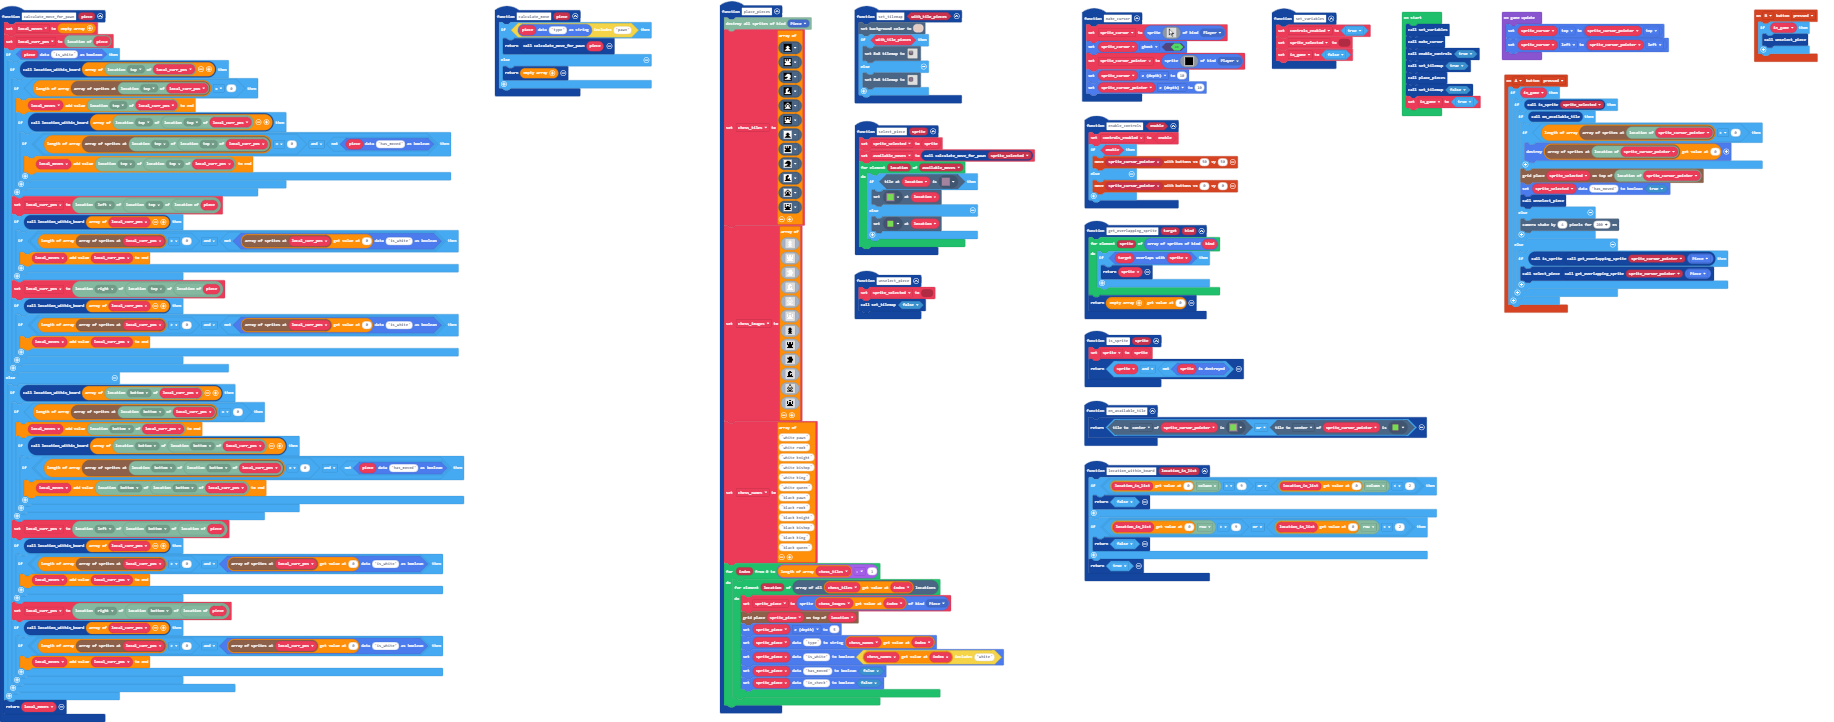
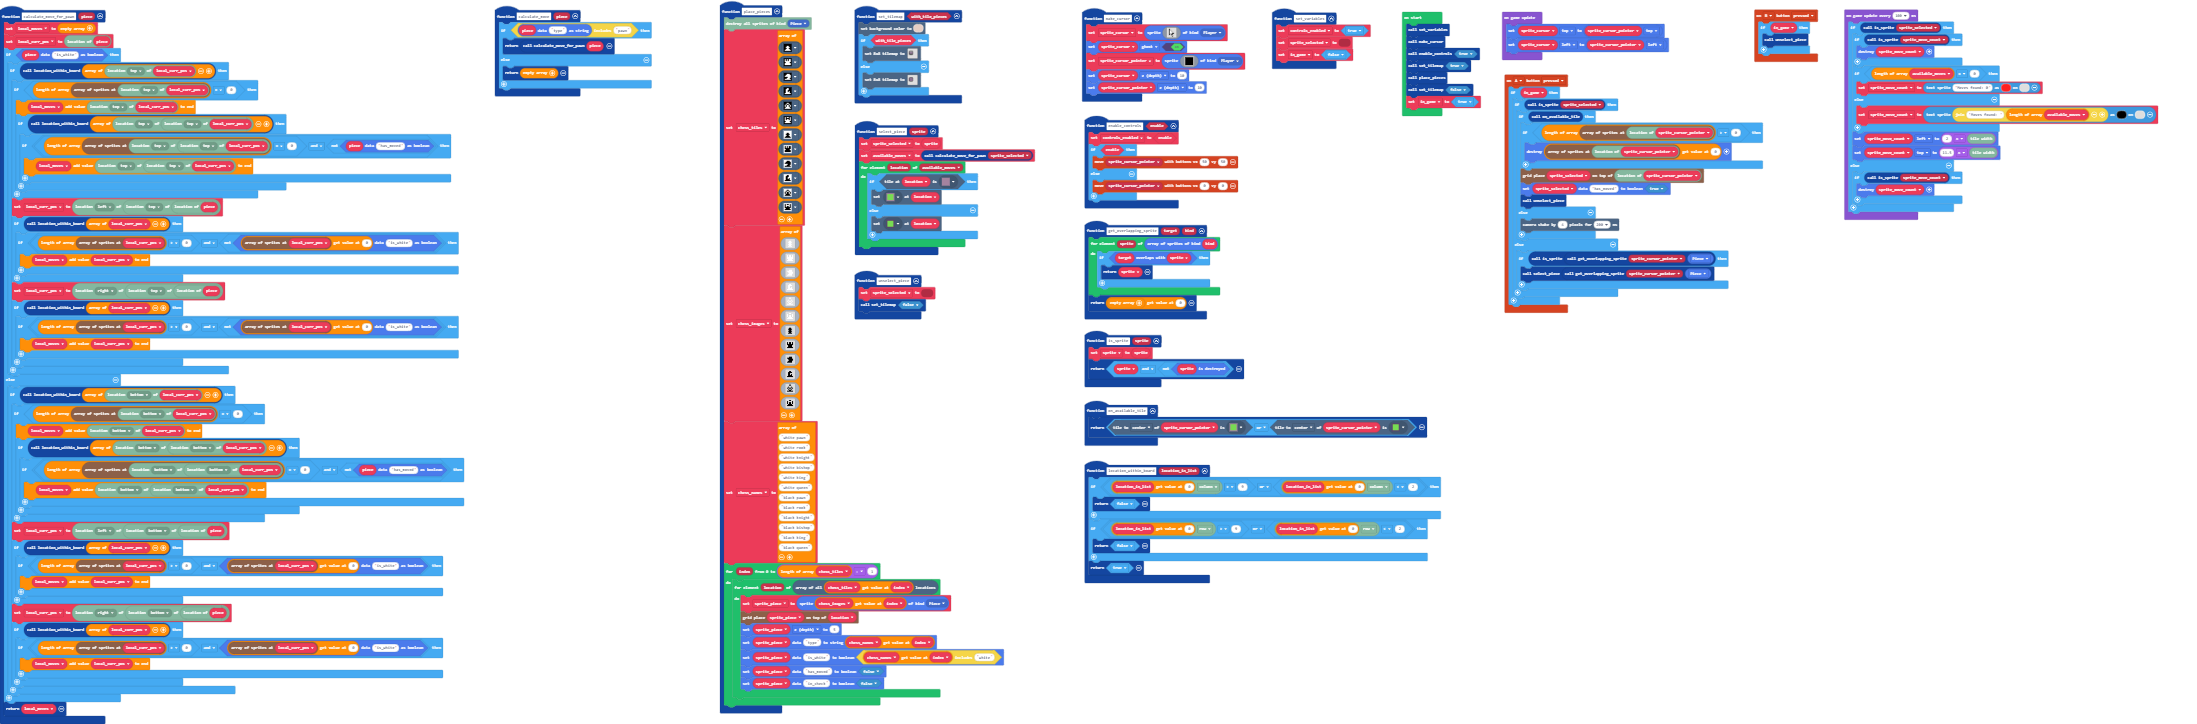
Show moves found

diff --git a/main.ts b/main.ts
@@ -227,6 +227,7 @@ function is_sprite (sprite: Sprite) {
     sprite = sprite
     return sprite && !(spriteutils.isDestroyed(sprite))
 }
+let sprite_move_count: TextSprite = null
 let sprite: Sprite = null
 let available_moves: tiles.Location[] = []
 let local_curr_pos: tiles.Location = null
@@ -250,4 +251,22 @@ in_game = true
 game.onUpdate(function () {
     sprite_cursor.top = sprite_cursor_pointer.top
     sprite_cursor.left = sprite_cursor_pointer.left
+})
+game.onUpdateInterval(100, function () {
+    if (is_sprite(sprite_selected)) {
+        if (is_sprite(sprite_move_count)) {
+            sprite_move_count.destroy()
+        }
+        if (available_moves.length == 0) {
+            sprite_move_count = textsprite.create("Moves found: 0", 0, 2)
+        } else {
+            sprite_move_count = textsprite.create("Moves found: " + available_moves.length, 0, 15)
+        }
+        sprite_move_count.left = 2 * tiles.tileWidth()
+        sprite_move_count.top = 11.5 * tiles.tileWidth()
+    } else {
+        if (is_sprite(sprite_move_count)) {
+            sprite_move_count.destroy()
+        }
+    }
 })
